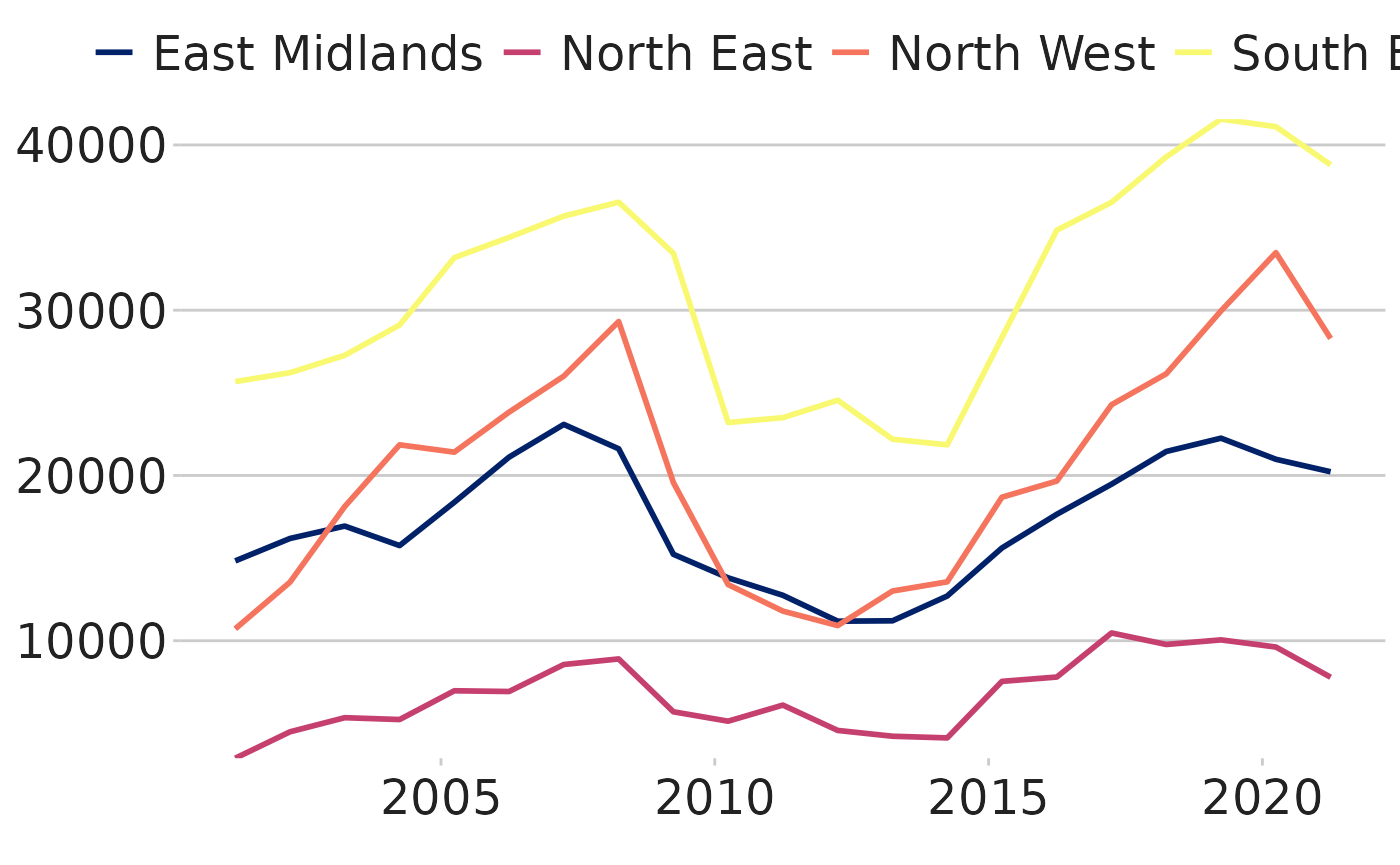
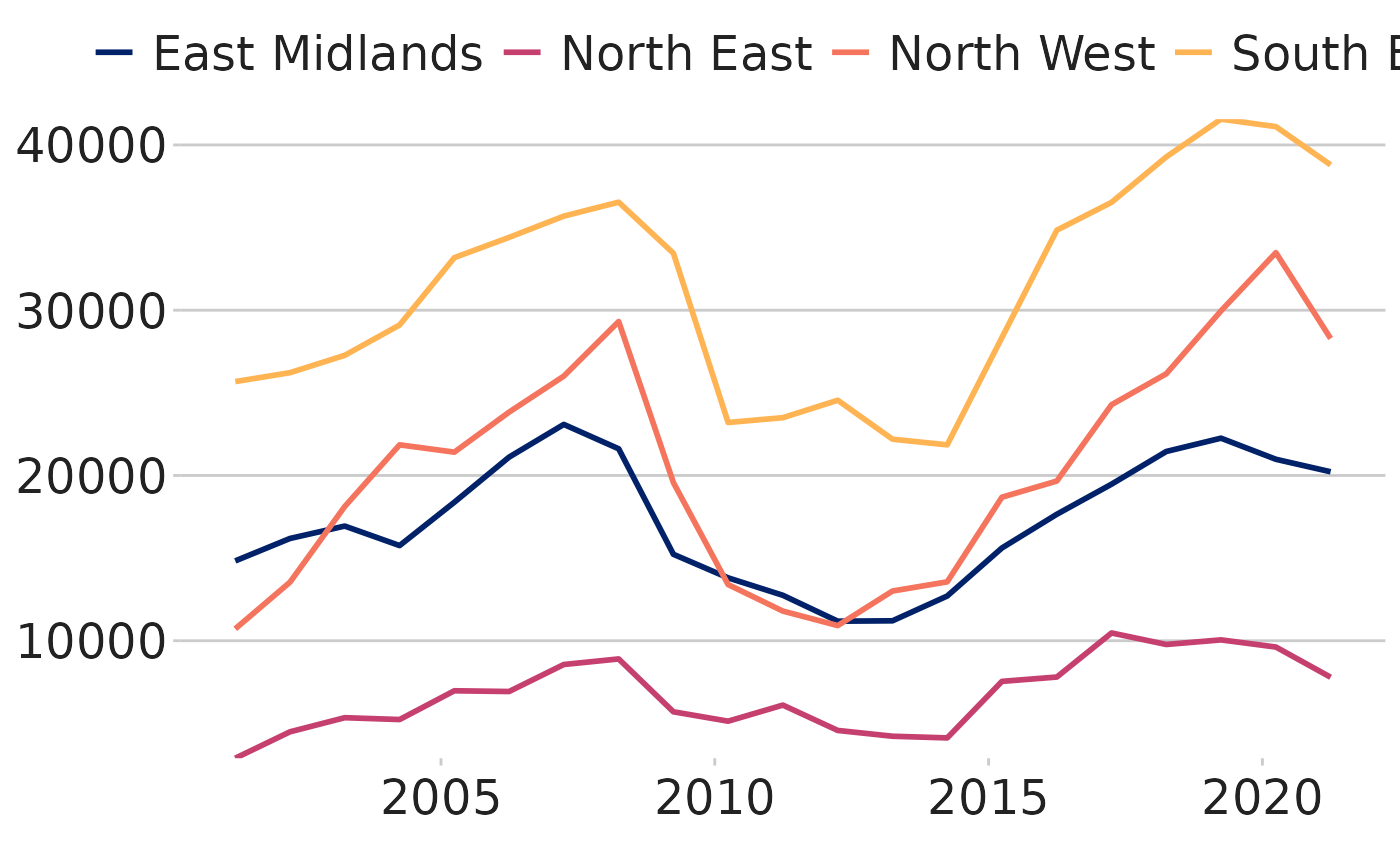
Deploying to gh-pages from @ communitiesuk/dluhctheme@e0e230429a84d5f0d1a5239ad7b8f2ffaf1af2cd 🚀

diff --git a/reference/facet_barchart.html b/reference/facet_barchart.html
@@ -45,7 +45,7 @@
 
     <div class="section level2">
     <h2 id="ref-usage">Usage<a class="anchor" aria-label="anchor" href="#ref-usage"></a></h2>
-    <div class="sourceCode"><pre class="sourceCode r"><code><span><span class="fu">facet_barchart</span><span class="op">(</span><span class="va">.data</span>, <span class="va">xcol</span>, <span class="va">ycol</span>, <span class="va">groupcol</span>, textsize <span class="op">=</span> <span class="fl">1</span><span class="op">)</span></span></code></pre></div>
+    <div class="sourceCode"><pre class="sourceCode r"><code><span><span class="fu">facet_barchart</span><span class="op">(</span><span class="va">.data</span>, <span class="va">xcol</span>, <span class="va">ycol</span>, <span class="va">groupcol</span>, textsize <span class="op">=</span> <span class="fl">1</span>, diffcolours <span class="op">=</span> <span class="cn">TRUE</span><span class="op">)</span></span></code></pre></div>
     </div>
 
     <div class="section level2">
@@ -68,6 +68,10 @@
 
 <dt>textsize</dt>
 <dd><p>The text size, initially set to 1, the size is a ratio to the normal dluhc_style size of 2</p></dd>
+
+
+<dt>diffcolours</dt>
+<dd><p>A TRUE/FALSE variable which determines if you want each of the charts to have the same colour, or for each graph to have one of the six colours from the DLUHC theme. If you want neither of these options, this can be overridden with the scale_fill_manual() ggplot function.</p></dd>
 
 </dl></div>
     <div class="section level2">

diff --git a/articles/dluhctheme.html b/articles/dluhctheme.html
@@ -244,7 +244,7 @@ and colour of the title element of the plot.</p>
 <span><span class="co">#&gt;         strip.text = ggplot2::element_text(size = size * 11, </span></span>
 <span><span class="co">#&gt;             hjust = 0))</span></span>
 <span><span class="co">#&gt; }</span></span>
-<span><span class="co">#&gt; &lt;bytecode: 0x5642866b7850&gt;</span></span>
+<span><span class="co">#&gt; &lt;bytecode: 0x55a2311021d0&gt;</span></span>
 <span><span class="co">#&gt; &lt;environment: namespace:dluhctheme&gt;</span></span></code></pre>
 <p>You can modify these settings for your chart, or add additional theme
 arguments, by calling the <code>theme</code> function with the arguments
